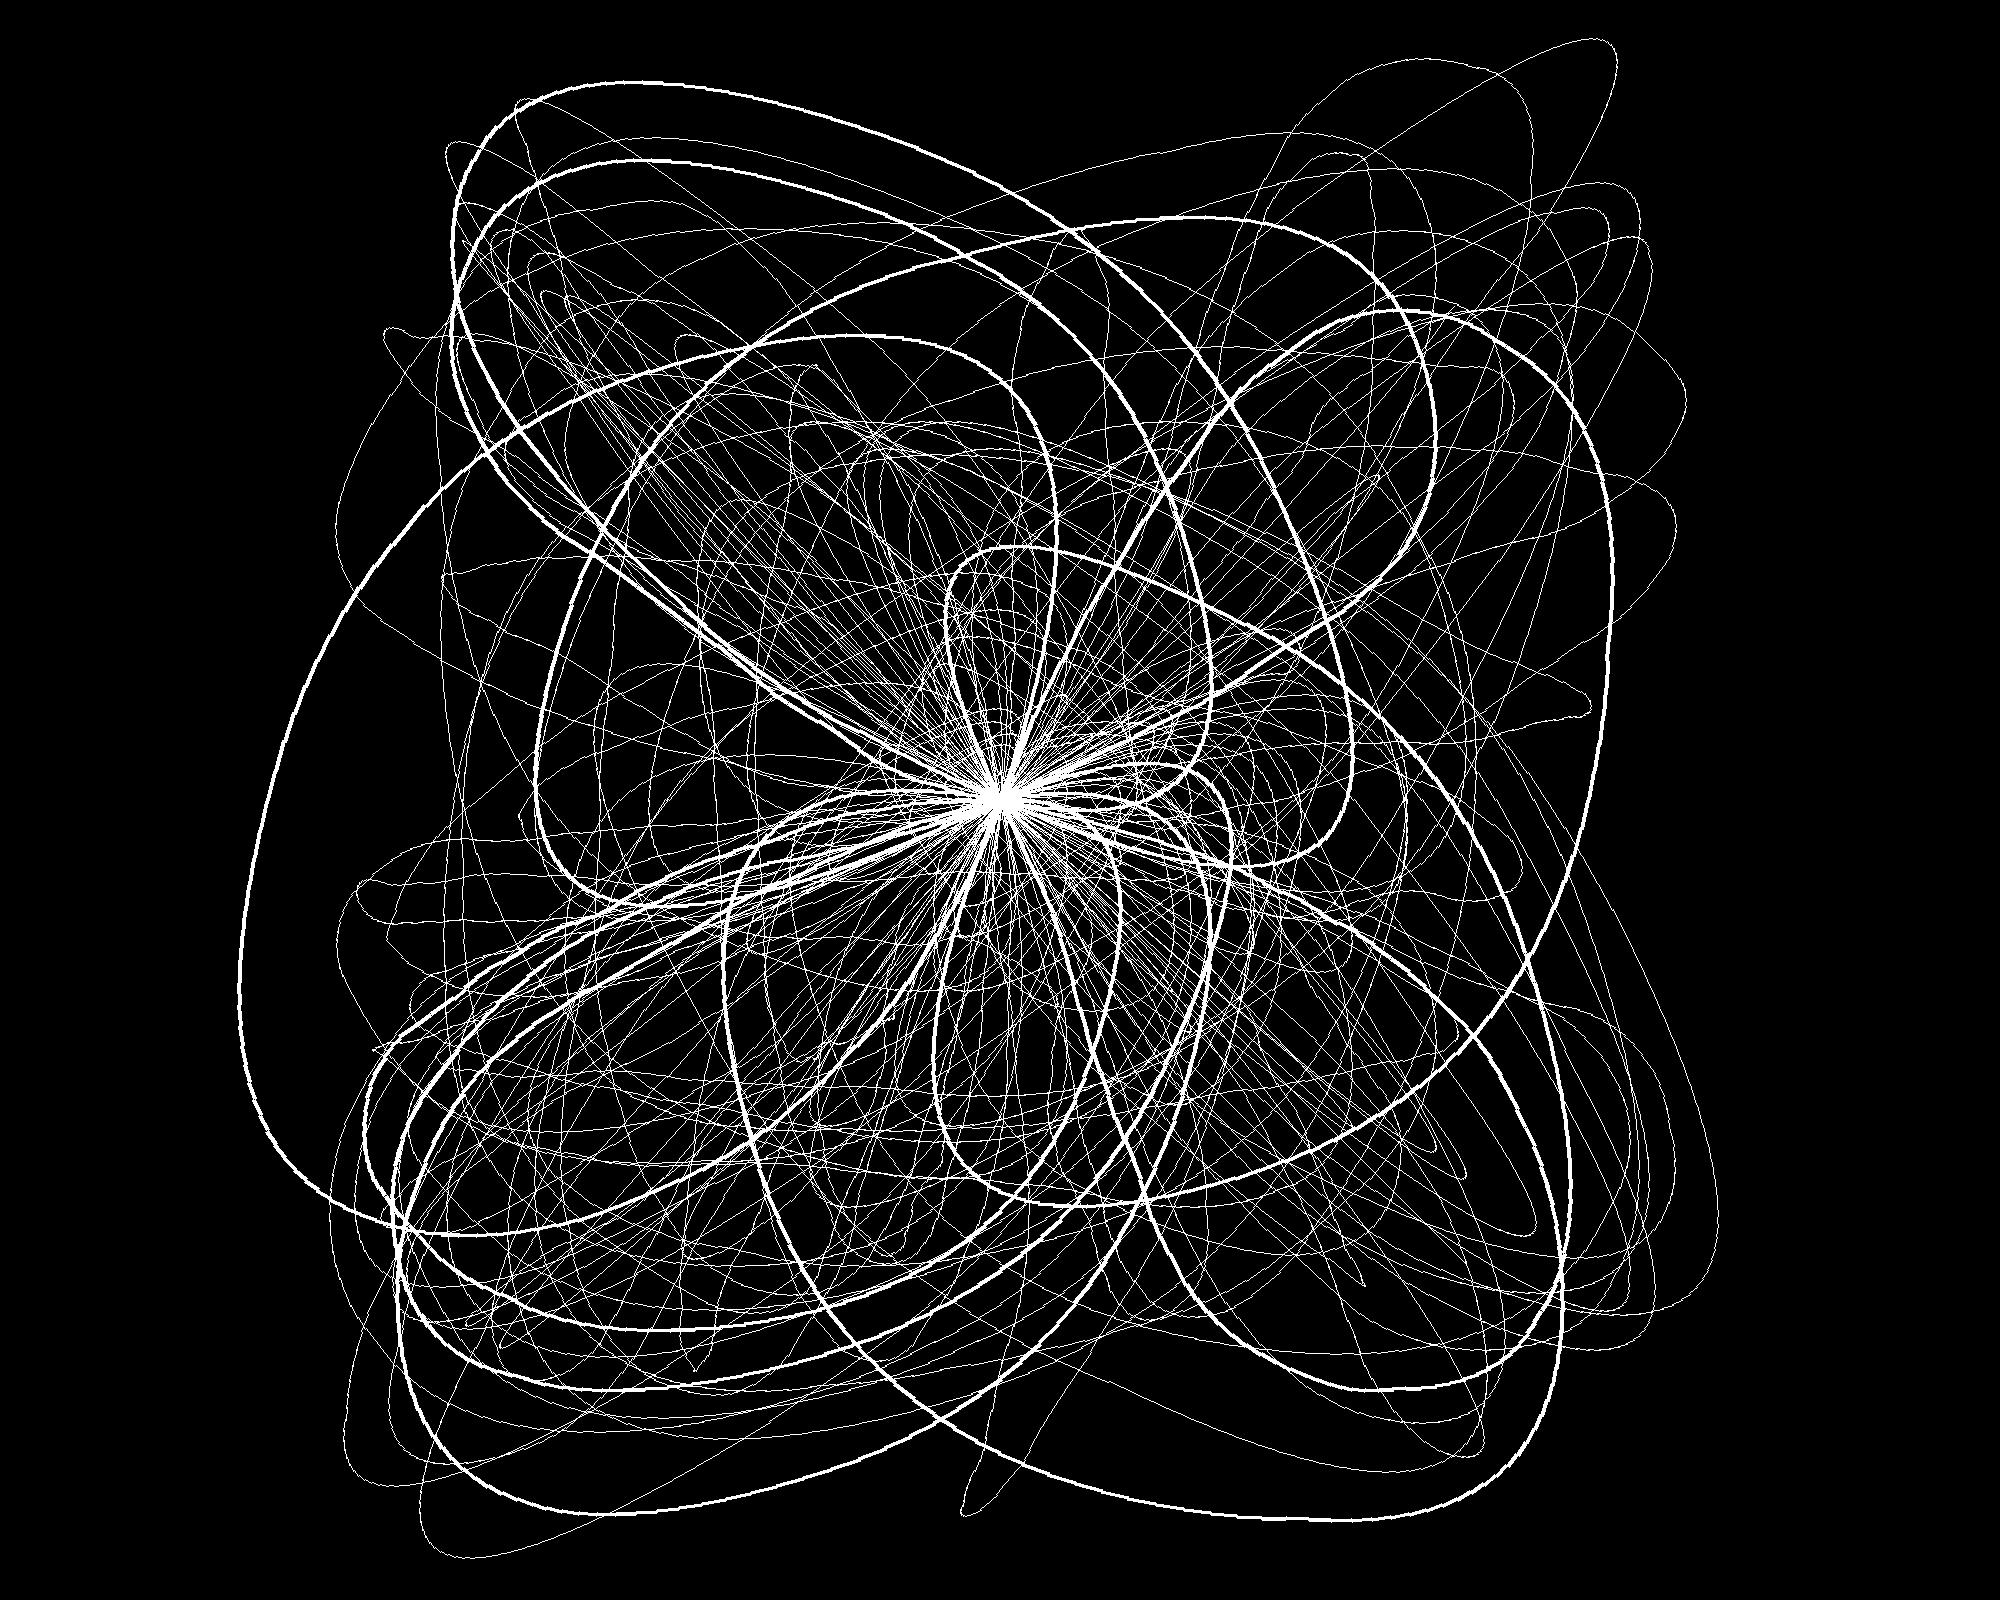
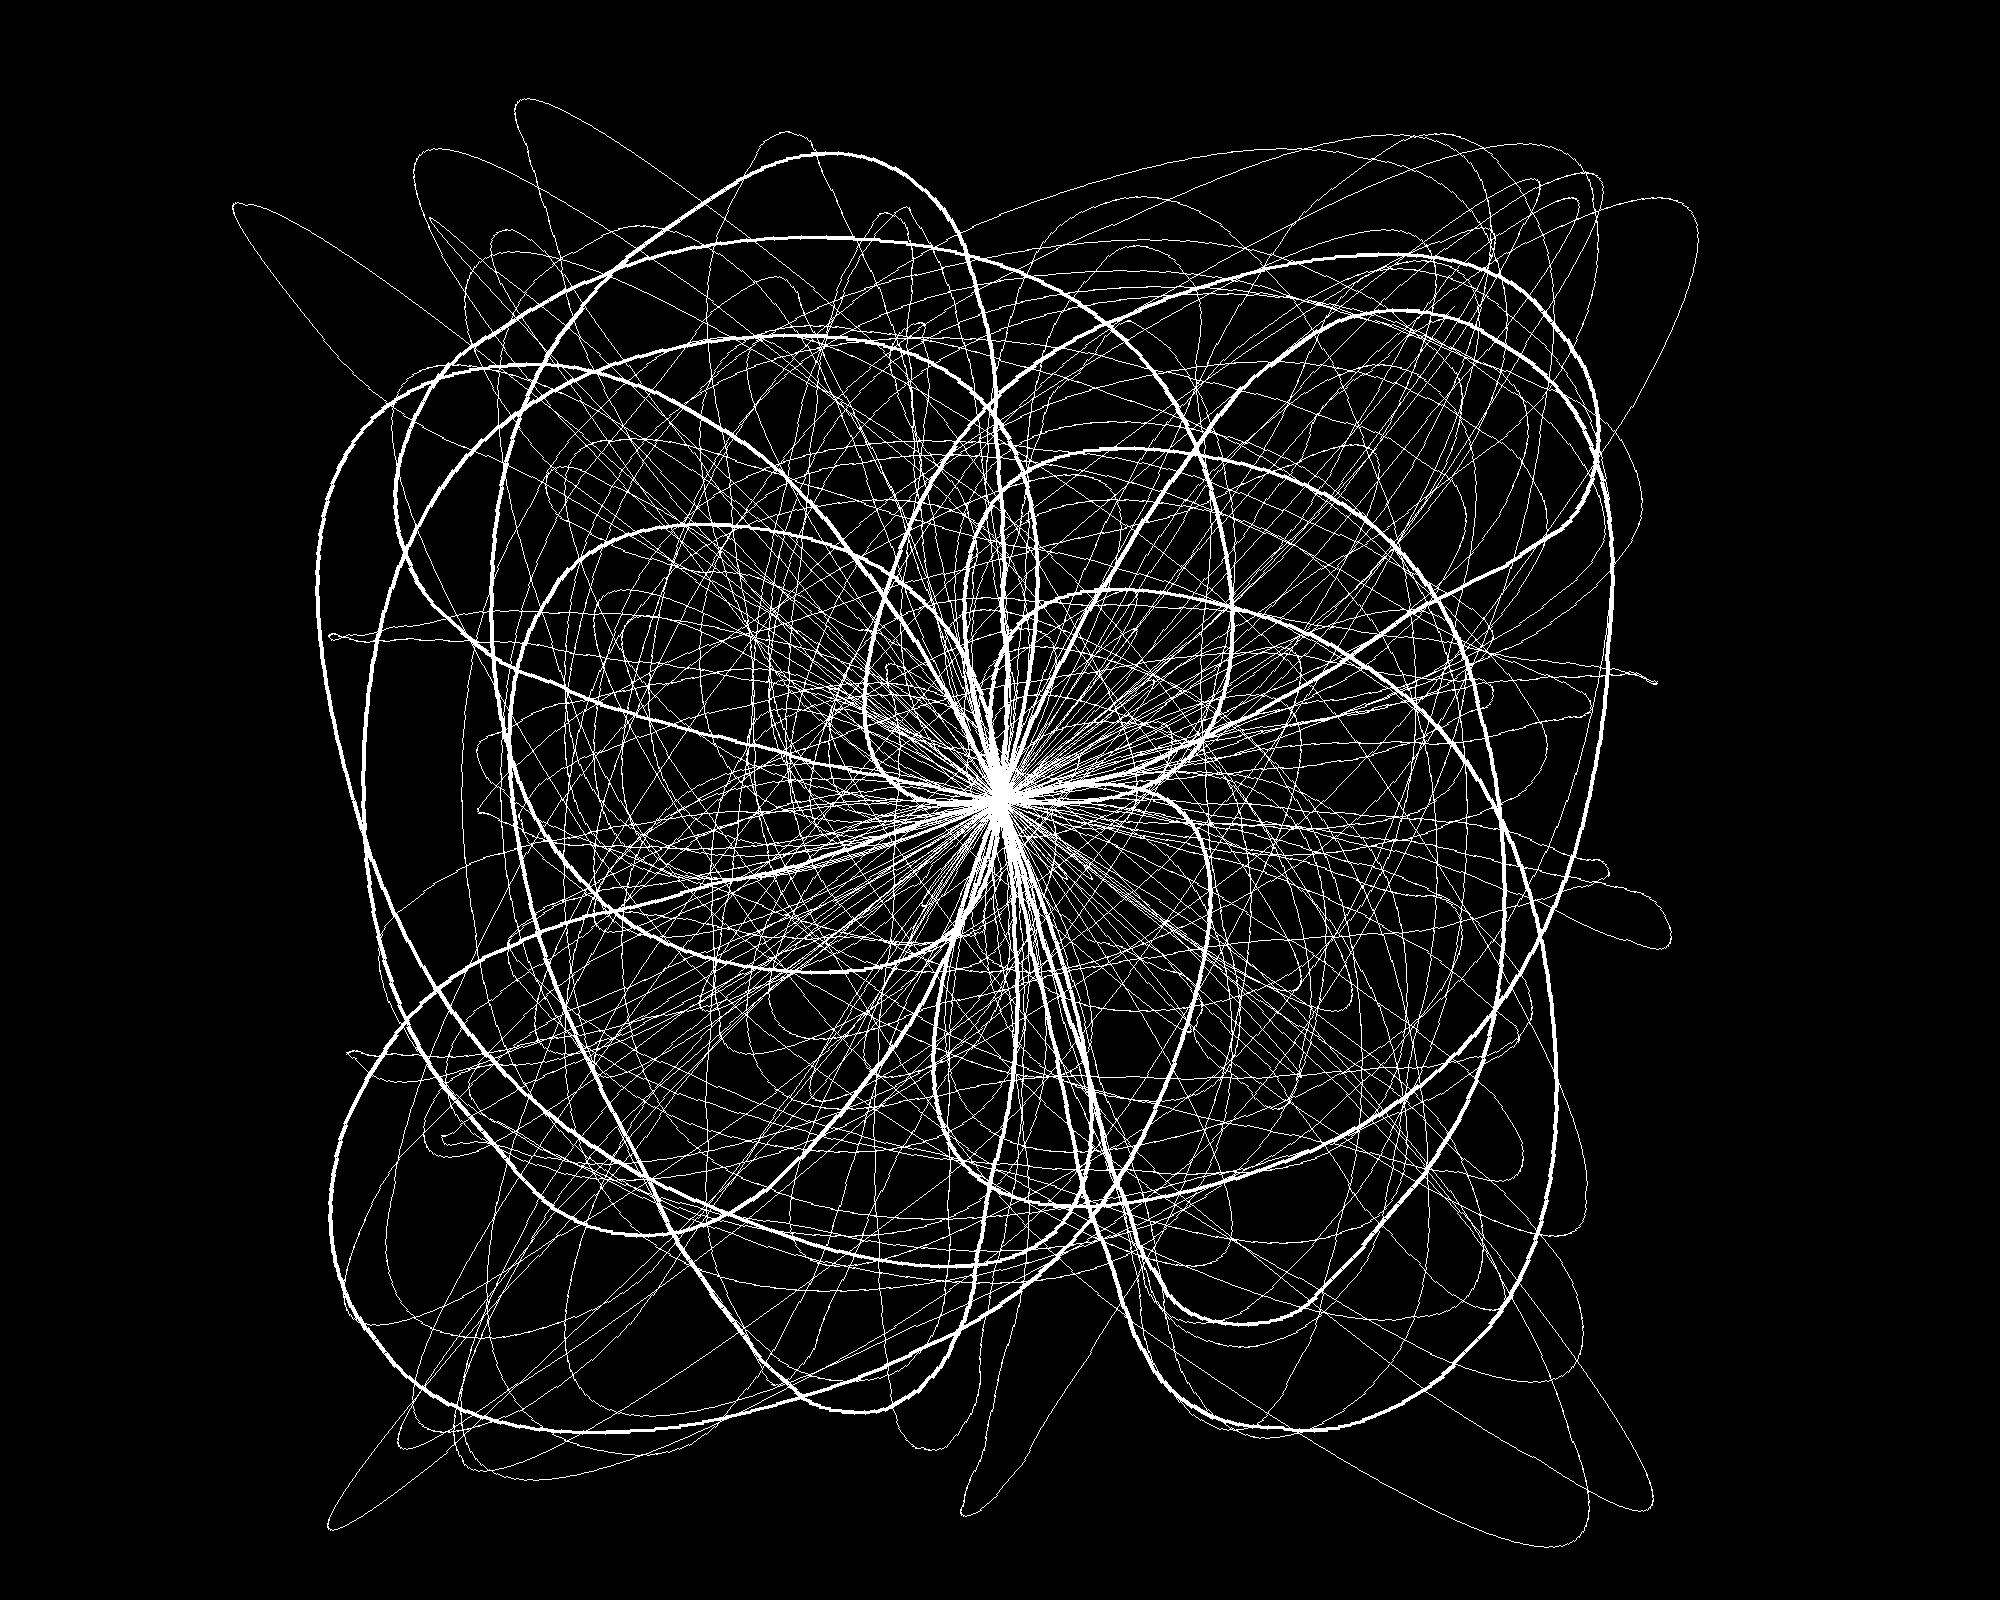
general maze framework

Changed region(s): [[0.155, 0.0938, 0.806, 0.9375], [0.682, 0.0938, 0.713, 0.125]]

diff --git a/randfa/randomcircle2.py b/randfa/randomcircle2.py
@@ -87,26 +87,27 @@ def drawcircle(params: Params):
 
     return dmin
 
-
 im = Image.new('L', (Params.width, Params.height))
 draw = ImageDraw.Draw(im)
 params = Params
-for kk in range(0, 10):
+circle_count = 10
+trial_count = 10
+for kk in range(0, circle_count):
     params.version = 0
     dmaxmin = 0
-    seed = 0
-    for j in range(0, 10):
-        params.randseed = 300 * kk + j
+    for j in range(0, trial_count):
+        random.seed()
+        params.randseed = random.randint(0, 1000)
         d = drawcircle(params)
         if d > dmaxmin:
             dmaxmin = d
-            seed = 300 * kk + j
+            seed = params.randseed
     params.version = 1
     params.randseed = seed
     d = drawcircle(params)
-    print(np.sqrt(dmaxmin), np.sqrt(d))
+    #print(np.sqrt(dmaxmin), np.sqrt(d))
 im.show()
-im.save("random.korok2.jpg")
+im.save("images/random.korok3.jpg")
 im.close()
 
 
